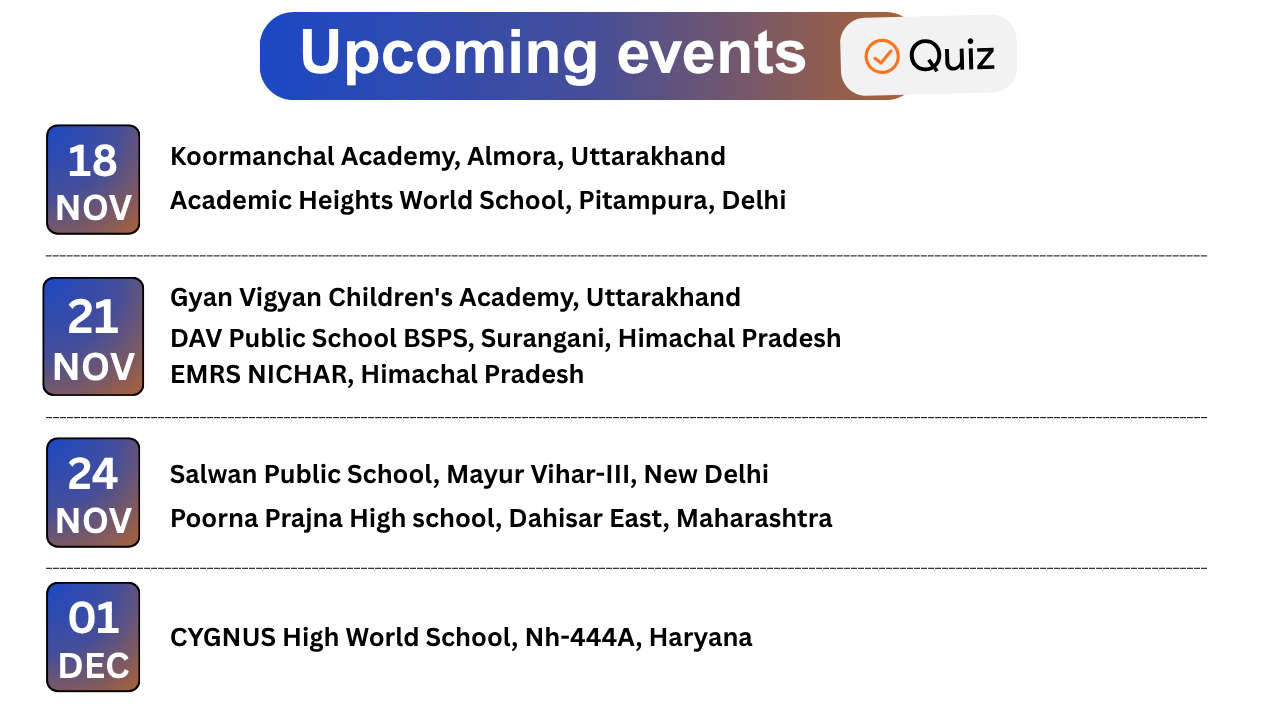
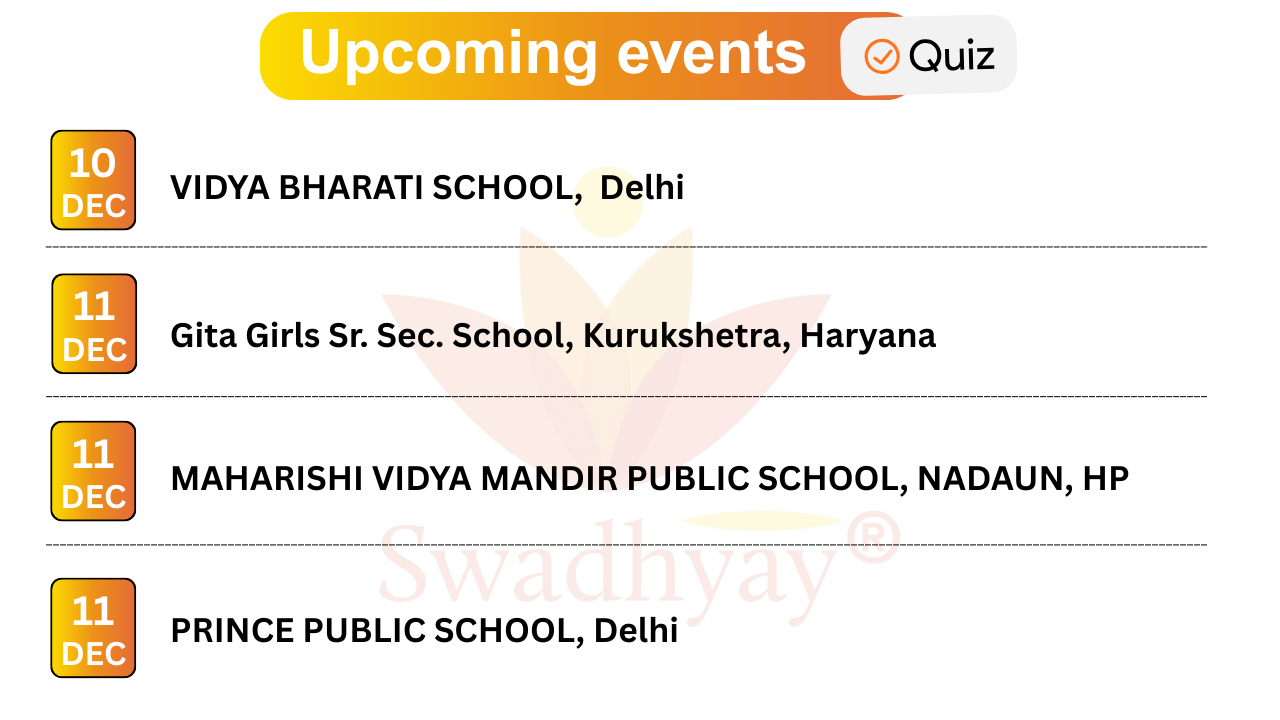
updated highlights images

Changed region(s): [[0.0312, 0.1528, 0.9375, 0.9778], [0.1875, 0.0, 0.7188, 0.1528]]

diff --git a/ngo-web/src/pages/Home.jsx b/ngo-web/src/pages/Home.jsx
@@ -47,6 +47,9 @@ const Home = () => {
     '/images/highlight/high1.png',
     '/images/highlight/high2.png',
     '/images/highlight/high3.png',
+    '/images/highlight/high4.png',
+    '/images/highlight/high5.png',
+    '/images/highlight/high6.png',
   ];
 
 
